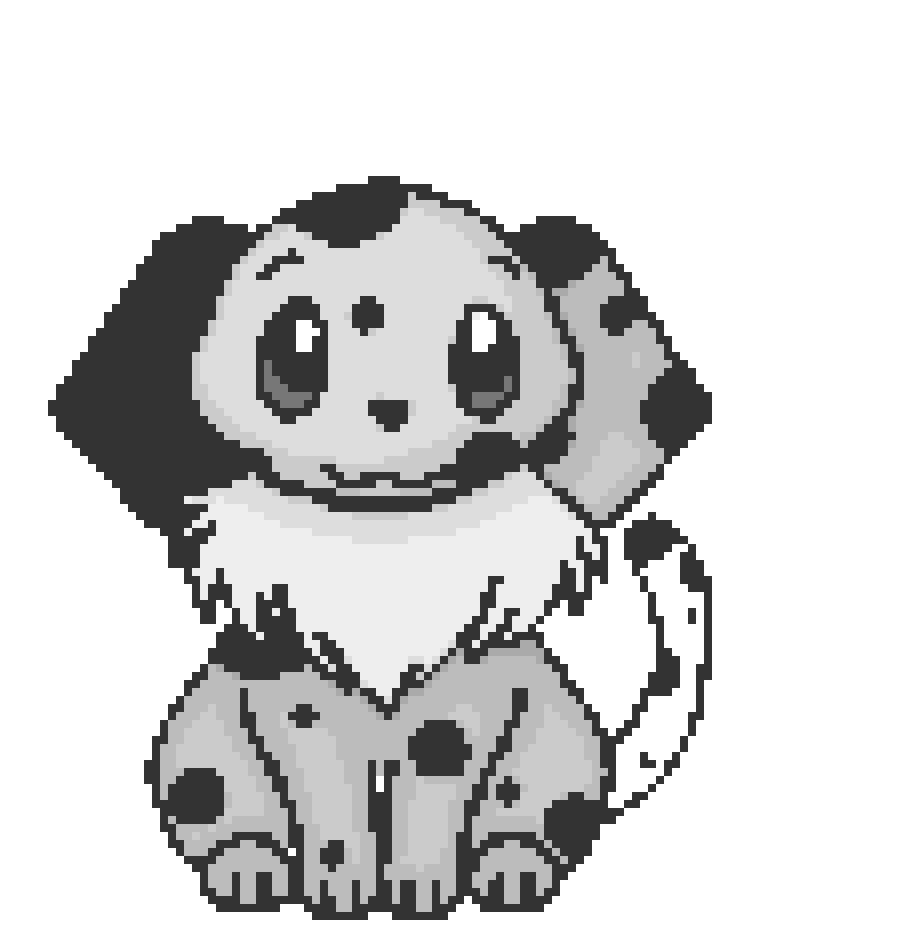
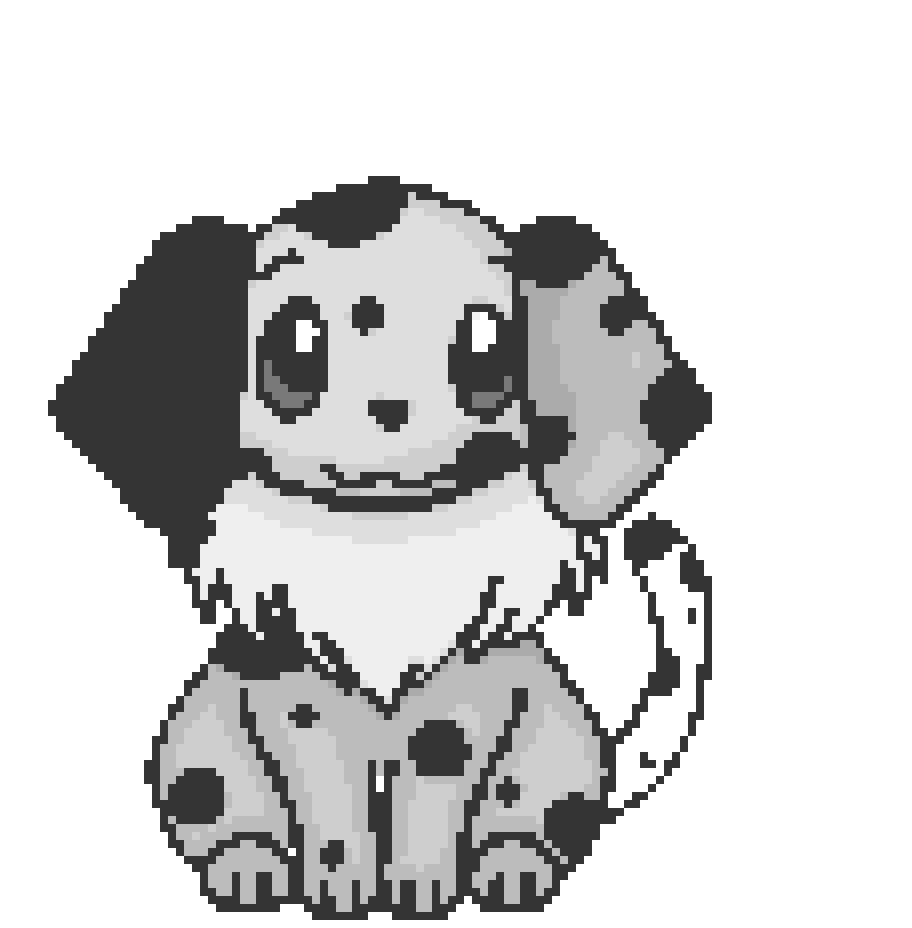
Schlappohren heissen jetzt __vorne; Pruefbogen 1 neu gebaut
Claude-Session: https://claude.ai/code/session_01X43J6eoqAwCyjs6Y62XCxu

diff --git a/entwuerfe/evi/zeichnen/erwachsen/werkzeug/pruefbogen.py b/entwuerfe/evi/zeichnen/erwachsen/werkzeug/pruefbogen.py
@@ -8,12 +8,12 @@ K = dict  # kurz
 FIG = [
  ('Evi',                    K(gesicht='gesicht-neutral',  ohr='ohr-buschel', schwanz='schwanz-buschel')),
  ('Evi gluecklich',         K(gesicht='gesicht-gluecklich', ohr='ohr-buschel', schwanz='schwanz-buschel')),
- ('Evi mit Schlappohren',   K(gesicht='gesicht-neutral',  ohr='ohr-schlapp', schwanz='schwanz-buschel')),
+ ('Evi mit Schlappohren',   K(gesicht='gesicht-neutral',  ohr='ohr-schlapp__vorne', schwanz='schwanz-buschel')),
  ('Evi, duenner Schwanz',   K(gesicht='gesicht-neutral',  ohr='ohr-buschel', schwanz='schwanz-duenn')),
- ('Klecksi',                K(gesicht='gesicht-neutral',  ohr='ohr-schlapp-flecken', schwanz='schwanz-duenn-flecken', muster_koerper='muster-flecken-koerper', muster_gesicht='muster-flecken-gesicht')),
- ('Klecksi traurig',        K(gesicht='gesicht-traurig',  ohr='ohr-schlapp-flecken', schwanz='schwanz-duenn-flecken', muster_koerper='muster-flecken-koerper', muster_gesicht='muster-flecken-gesicht')),
+ ('Klecksi',                K(gesicht='gesicht-neutral',  ohr='ohr-schlapp-flecken__vorne', schwanz='schwanz-duenn-flecken', muster_koerper='muster-flecken-koerper', muster_gesicht='muster-flecken-gesicht')),
+ ('Klecksi traurig',        K(gesicht='gesicht-traurig',  ohr='ohr-schlapp-flecken__vorne', schwanz='schwanz-duenn-flecken', muster_koerper='muster-flecken-koerper', muster_gesicht='muster-flecken-gesicht')),
  ('Buschelohr + Flecken',   K(gesicht='gesicht-staunen',  ohr='ohr-buschel', schwanz='schwanz-duenn-flecken', muster_koerper='muster-flecken-koerper')),
- ('Schlappohr, dunkler',    K(gesicht='gesicht-muede',    ohr='ohr-schlapp', schwanz='schwanz-buschel', muster_gesicht='muster-flecken-gesicht', fell=170.)),
+ ('Schlappohr, dunkler',    K(gesicht='gesicht-muede',    ohr='ohr-schlapp__vorne', schwanz='schwanz-buschel', muster_gesicht='muster-flecken-gesicht', fell=170.)),
 ]
 name = sys.argv[1] if len(sys.argv) > 1 else 'pruefbogen-1'
 bilder = []

diff --git a/entwuerfe/evi/zeichnen/ANLEITUNG.md b/entwuerfe/evi/zeichnen/ANLEITUNG.md
@@ -101,7 +101,7 @@ Jedes Teil ist **eine PNG-Datei** (2048 × 2048, durchsichtiger Hintergrund, Fig
 
 Dazu in jeder Stufe: `vorlagen/` (Zeichenvorlagen), `ergebnis/` (fertige Zusammensetzungen) und bei `erwachsen/` das `werkzeug/`. Einen Ordner `basis/` gibt es nicht mehr: Evis Grundteile liegen jetzt einfach als erste Variante in den Teile-Ordnern. Die ChatGPT-Vorschläge für Gesichter liegen in `erwachsen/gesichter/frontal/vorschlaege-chatgpt/`.
 
-**Ohren und Schwänze mit Flecken:** gibt es als eigene Datei mit Endung `-flecken` (`ohr-schlapp-flecken.png`, `schwanz-duenn-flecken.png`). Sie sind das normale Teil samt Flecken. Ohren dürfen beide Seiten enthalten (links und rechts gezeichnet, dann nicht spiegeln; vermerkt in der Pose).
+**Ohren und Schwänze mit Flecken:** gibt es als eigene Datei mit Endung `-flecken` (`ohr-schlapp-flecken__vorne.png`, `schwanz-duenn-flecken.png`). Sie sind das normale Teil samt Flecken. Ohren dürfen beide Seiten enthalten (links und rechts gezeichnet, dann nicht spiegeln; vermerkt in der Pose).
 
 **Vorn oder hinten festlegen:** Endet ein Dateiname auf `__vorne` (zwei Unterstriche), liegt das Teil beim Zusammensetzen ganz vorn, vor Kopf, Krause und allem anderen. Endet er auf `__hinten`, liegt es ganz hinten. Beispiele: `ohr-schlapp__vorne.png`, `schleife__vorne.png`, `krause-evi__hinten.png`. Ohne Endung gilt die normale Reihenfolge (Schwanz, Ohren, Körper, Kopf, Krause, Gesicht). Das gilt für alle Teile und Ansichten.
 
